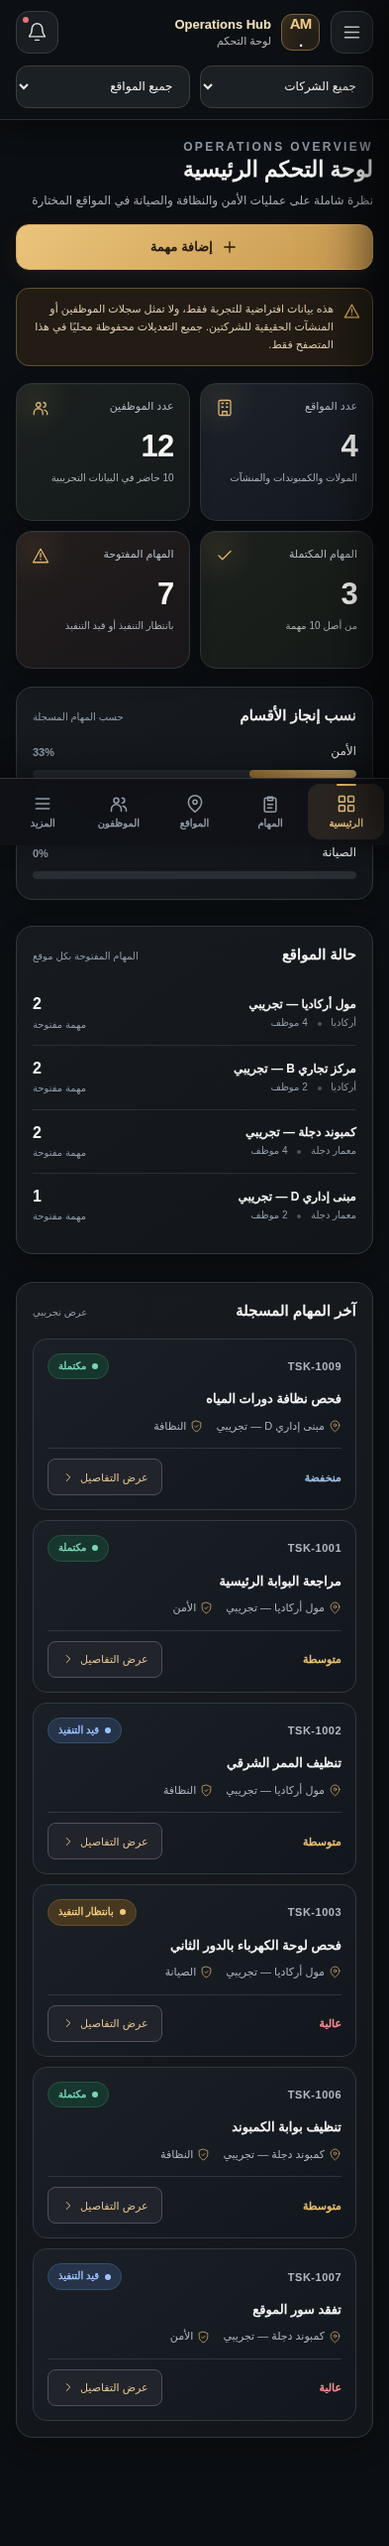
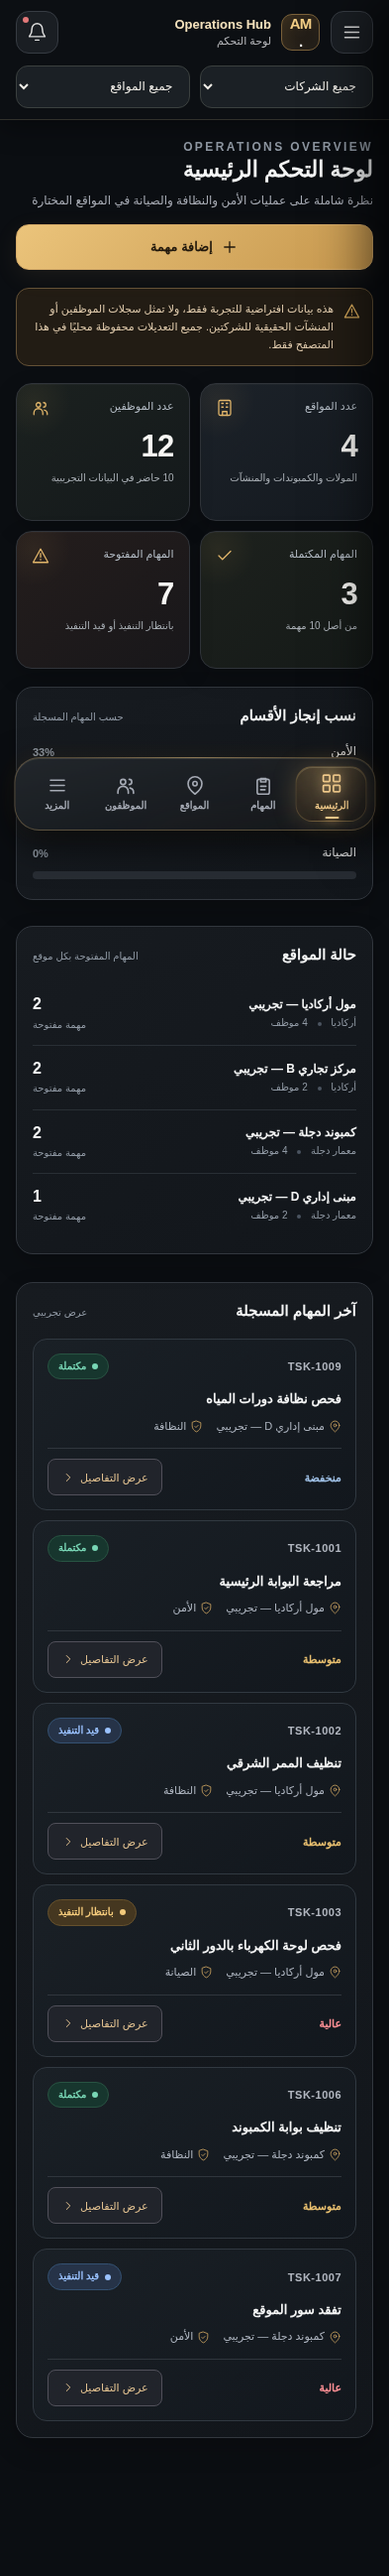
Release V0.2.4 - Floating Navigation and Motion

diff --git a/css/motion-floating.css b/css/motion-floating.css
@@ -1,0 +1,131 @@
+/* ARCADIA × MEMAAR DEGLA | V0.2.4 Floating Navigation & Motion
+   Additive polish on top of V0.2.3; existing desktop layout remains untouched.
+   Only opacity/transform animations for core transitions and respects reduced motion. */
+:root{--ease-premium:cubic-bezier(.22,1,.36,1);--motion-fast:180ms;--motion-standard:360ms}
+
+/* Soft, purposeful feedback for interactive elements across views. */
+.btn,.icon-btn,.table-link,.nav-item,.top-filter select,.data-card,.metric-card{
+  transition:background-color .22s ease,border-color .22s ease,box-shadow .3s ease,color .22s ease,filter .22s ease,transform .35s var(--ease-premium);
+}
+.btn:active,.icon-btn:active,.table-link:active{transform:scale(.965)}
+.btn-primary:hover{box-shadow:0 10px 32px rgba(216,165,83,.19),inset 0 1px rgba(255,255,255,.2)}
+.top-filter select:focus-visible,.select-plain:focus-visible{border-color:#d9ab5c;box-shadow:0 0 0 3px rgba(217,171,92,.14)}
+@media(hover:hover){
+  .data-card:hover,.metric-card:hover{border-color:#6d583c;transform:translateY(-3px);box-shadow:0 13px 36px #0005,0 0 0 1px #c6a36612}
+  .nav-item:not(.active):hover{transform:translateX(-2px)}
+}
+
+/* Page transitions happen on navigation, not on every search keystroke/filter refresh. */
+.content.page-enter > *{animation:pageSoftReveal .46s var(--ease-premium) both}
+.content.page-enter > :nth-child(2){animation-delay:35ms}
+.content.page-enter > :nth-child(3){animation-delay:65ms}
+.content.page-enter > :nth-child(4){animation-delay:90ms}
+.content.page-enter > :nth-child(5){animation-delay:115ms}
+@keyframes pageSoftReveal{from{opacity:.25;transform:translate3d(0,10px,0)}to{opacity:1;transform:translate3d(0,0,0)}}
+/* Gentle progress indication on entry, without any repeating animation. */
+.content.page-enter .progress-fill{transform-origin:right center;animation:progressUnfold .7s var(--ease-premium) both}
+@keyframes progressUnfold{from{transform:scaleX(.12);opacity:.5}to{transform:scaleX(1);opacity:1}}
+.dialog-backdrop{animation:veilAppear .24s ease both}
+.dialog-backdrop .dialog{animation:dialogArrive .42s var(--ease-premium) both;transform-origin:50% 90%}
+@keyframes veilAppear{from{opacity:0}to{opacity:1}}
+@keyframes dialogArrive{from{opacity:0;transform:translate3d(0,20px,0) scale(.975)}to{opacity:1;transform:translate3d(0,0,0) scale(1)}}
+
+@media(max-width:820px){
+  /* Reserve sufficient breathing room for the floating dock, incl. curved corners. */
+  .content{padding-bottom:calc(125px + env(safe-area-inset-bottom,0px))}
+  .sidebar{transition:transform .42s var(--ease-premium)}
+  .sidebar-overlay{display:block;position:fixed;inset:0;background:rgba(0,0,0,.56);z-index:20;opacity:0;visibility:hidden;pointer-events:none;backdrop-filter:blur(0);transition:opacity .3s ease,visibility .3s ease,backdrop-filter .3s ease}
+  .sidebar-overlay.visible{display:block;opacity:1;visibility:visible;pointer-events:auto;backdrop-filter:blur(5px)}
+
+  /* Floating navigation: truly detached from all four screen edges. */
+  .mobile-bottom-nav{
+    --dock-glow:rgba(225,178,103,.26);
+    display:grid;
+    grid-template-columns:repeat(5,minmax(0,1fr));
+    position:fixed;
+    z-index:11;
+    left:50%;right:auto;
+    bottom:calc(15px + env(safe-area-inset-bottom,0px));
+    width:min(540px,calc(100% - 28px));
+    min-height:74px;
+    height:74px;
+    padding:8px;
+    transform:translate3d(-50%,0,0);
+    isolation:isolate;
+    border:1px solid rgba(215,174,105,.32);
+    border-radius:25px;
+    background:linear-gradient(165deg,rgba(35,39,44,.93),rgba(16,19,24,.94));
+    -webkit-backdrop-filter:blur(22px) saturate(130%);
+    backdrop-filter:blur(22px) saturate(130%);
+    box-shadow:0 13px 38px rgba(0,0,0,.66),0 0 24px rgba(218,171,92,.09),inset 0 1px 0 rgba(255,246,217,.12);
+  }
+  /* One golden spotlight glides underneath the selected destination. */
+  .mobile-bottom-nav::before{
+    content:"";
+    position:absolute;
+    z-index:-1;
+    top:8px;bottom:8px;
+    right:8px;
+    width:calc(20% - 3.2px);
+    border-radius:17px;
+    background:radial-gradient(ellipse at 50% 12%,rgba(248,207,135,.20),transparent 78%),linear-gradient(145deg,rgba(181,131,59,.22),rgba(122,86,37,.12));
+    border:1px solid rgba(244,199,122,.2);
+    box-shadow:0 0 23px var(--dock-glow),inset 0 1px rgba(255,237,191,.18);
+    transition:right .5s var(--ease-premium),background-color .3s ease;
+    pointer-events:none;
+  }
+  .mobile-bottom-nav[data-active-slot="1"]::before{right:calc(20% + 4.8px)}
+  .mobile-bottom-nav[data-active-slot="2"]::before{right:calc(40% + 1.6px)}
+  .mobile-bottom-nav[data-active-slot="3"]::before{right:calc(60% - 1.6px)}
+  .mobile-bottom-nav[data-active-slot="4"]::before{right:calc(80% - 4.8px)}
+  .mobile-bottom-nav::after{
+    content:"";position:absolute;left:16%;right:16%;top:-1px;height:1px;pointer-events:none;
+    background:linear-gradient(90deg,transparent,rgba(248,207,140,.5),transparent);
+    opacity:.7;
+  }
+  .bottom-nav-item{
+    min-height:56px;height:56px;
+    padding:3px 1px;
+    border-radius:17px;
+    color:#a5aab4;
+    font-size:10px;
+    font-weight:700;
+    line-height:1.4;
+    background:transparent;
+    -webkit-tap-highlight-color:transparent;
+    touch-action:manipulation;
+    transition:color .25s ease,transform .3s var(--ease-premium),filter .25s ease;
+  }
+  .bottom-nav-item .icon{width:21px;height:21px;transition:transform .4s var(--ease-premium),filter .35s ease}
+  .bottom-nav-item.active{background:transparent;color:#f4cd8d;box-shadow:none}
+  .bottom-nav-item.active::before{display:none}
+  .bottom-nav-item.active::after{
+    content:"";position:absolute;bottom:3px;width:14px;height:2px;border-radius:4px;
+    background:#f5ce8f;box-shadow:0 0 8px #e9b76a,0 0 15px #d7a25888;
+  }
+  .bottom-nav-item.active .icon{filter:drop-shadow(0 0 5px rgba(250,208,140,.55));transform:translateY(-2px) scale(1.065)}
+  .bottom-nav-item:active{transform:scale(.90)}
+  .bottom-nav-item:focus-visible{outline:2px solid #e1b472;outline-offset:-2px}
+  #toast{bottom:calc(106px + env(safe-area-inset-bottom,0px))}
+  .metric-card:active,.data-card:active{transform:scale(.99)}
+  .topbar .mobile-menu:active{transform:scale(.93) rotate(-5deg)}
+  .heading-actions .btn-primary{position:relative;overflow:hidden}
+  .heading-actions .btn-primary::after{content:"";position:absolute;top:0;bottom:0;width:34%;left:-35%;transform:skewX(-24deg);background:linear-gradient(90deg,transparent,rgba(255,255,255,.14),transparent);pointer-events:none;transition:left .6s ease}
+  .heading-actions .btn-primary:active::after{left:110%}
+}
+@media(max-width:360px){
+  .mobile-bottom-nav{width:calc(100% - 20px);bottom:calc(11px + env(safe-area-inset-bottom,0px));padding:7px;height:70px;min-height:70px;border-radius:22px}
+  .mobile-bottom-nav::before{top:7px;bottom:7px;right:7px;width:calc(20% - 2.8px)}
+  .mobile-bottom-nav[data-active-slot="1"]::before{right:calc(20% + 4.2px)}
+  .mobile-bottom-nav[data-active-slot="2"]::before{right:calc(40% + 1.4px)}
+  .mobile-bottom-nav[data-active-slot="3"]::before{right:calc(60% - 1.4px)}
+  .mobile-bottom-nav[data-active-slot="4"]::before{right:calc(80% - 4.2px)}
+  .bottom-nav-item{height:54px;min-height:54px;font-size:9px}
+}
+@media(min-width:821px){.mobile-bottom-nav{display:none}}
+@media(prefers-reduced-motion:reduce){
+  .content.page-enter > *, .content.page-enter .progress-fill,.dialog-backdrop,.dialog-backdrop .dialog{animation:none!important}
+  .mobile-bottom-nav::before,.bottom-nav-item,.bottom-nav-item .icon,.sidebar,.sidebar-overlay{transition:none!important}
+  .btn,.icon-btn,.table-link,.nav-item,.top-filter select,.data-card,.metric-card{transition:none!important}
+  .mobile-bottom-nav{-webkit-backdrop-filter:none;backdrop-filter:none;background:#191c21}
+}

diff --git a/index.html b/index.html
@@ -6,11 +6,12 @@
   <meta name="theme-color" content="#0b0d11">
   <meta name="description" content="نموذج أولي لنظام إدارة التشغيل لشركتي ARCADIA وMEMAAR DEGLA">
   <title>Operations Hub | ARCADIA × MEMAAR DEGLA</title>
-  <link rel="stylesheet" href="css/main.css?v=0.2.3">
-  <link rel="stylesheet" href="css/components.css?v=0.2.3">
-  <link rel="stylesheet" href="css/dashboard.css?v=0.2.3">
-  <link rel="stylesheet" href="css/responsive.css?v=0.2.3">
-  <link rel="stylesheet" href="css/mobile-premium.css?v=0.2.3">
+  <link rel="stylesheet" href="css/main.css?v=0.2.4">
+  <link rel="stylesheet" href="css/components.css?v=0.2.4">
+  <link rel="stylesheet" href="css/dashboard.css?v=0.2.4">
+  <link rel="stylesheet" href="css/responsive.css?v=0.2.4">
+  <link rel="stylesheet" href="css/mobile-premium.css?v=0.2.4">
+  <link rel="stylesheet" href="css/motion-floating.css?v=0.2.4">
 </head>
 <body>
 <svg aria-hidden="true" class="sprite" xmlns="http://www.w3.org/2000/svg">
@@ -54,7 +55,7 @@
     <div class="side-section-label">قائمة النظام</div>
     <nav id="side-nav"></nav>
     <div class="side-bottom">
-      <div class="prototype-notice"><span class="prototype-pulse"></span><div><strong>نسخة استعراضية 0.2.3</strong><small>البيانات للتجربة فقط — لا يوجد خادم أو حسابات فعلية</small></div></div>
+      <div class="prototype-notice"><span class="prototype-pulse"></span><div><strong>نسخة استعراضية 0.2.4</strong><small>البيانات للتجربة فقط — لا يوجد خادم أو حسابات فعلية</small></div></div>
       <div class="build-version">© 2026 ARCADIA × MEMAAR DEGLA</div>
     </div>
   </aside>
@@ -70,7 +71,7 @@
       </div>
     </header>
     <main class="content" id="content" tabindex="-1"></main>
-    <nav class="mobile-bottom-nav" id="mobile-bottom-nav" aria-label="التنقل السريع">
+    <nav class="mobile-bottom-nav" id="mobile-bottom-nav" aria-label="التنقل السريع" data-active-slot="0">
       <button type="button" data-page="dashboard" class="bottom-nav-item active"><svg class="icon" aria-hidden="true"><use href="#i-grid"></use></svg><span>الرئيسية</span></button>
       <button type="button" data-page="tasks" class="bottom-nav-item"><svg class="icon" aria-hidden="true"><use href="#i-clipboard"></use></svg><span>المهام</span></button>
       <button type="button" data-page="sites" class="bottom-nav-item"><svg class="icon" aria-hidden="true"><use href="#i-map"></use></svg><span>المواقع</span></button>
@@ -82,7 +83,7 @@
 </div>
 <div id="dialog-root"></div>
 <div id="toast" role="status" aria-live="polite"></div>
-<script type="module" src="js/app.js?v=0.2.3"></script>
+<script type="module" src="js/app.js?v=0.2.4"></script>
 <noscript><p style="padding:1rem;text-align:center">يتطلب تشغيل هذه الواجهة تفعيل JavaScript.</p></noscript>
 </body>
 </html>

diff --git a/js/ui/events.js b/js/ui/events.js
@@ -4,7 +4,7 @@ export function initEvents(ctx) {
   function resetDemo(){if(!confirm('هل تريد حذف التعديلات التجريبية وإعادة البيانات الأصلية؟'))return;resetData();closeDialog();state.company='all';state.site='all';state.search='';state.status='all';refresh();toast('أُعيدت البيانات التجريبية');}
   function closeSidebar(){$('sidebar').classList.remove('open');$('overlay').classList.remove('visible');$('menu-btn').setAttribute('aria-expanded','false');}
   document.addEventListener('click',e=>{
-    const nav=e.target.closest('[data-page]');if(nav){state.page=nav.dataset.page;state.search='';state.status='all';closeSidebar();renderPage();window.scrollTo({top:0,behavior:'auto'});return;}
+    const nav=e.target.closest('[data-page]');if(nav){const changed=state.page!==nav.dataset.page;state.page=nav.dataset.page;state.search='';state.status='all';closeSidebar();renderPage({animate:changed});window.scrollTo({top:0,behavior:'auto'});return;}
     const a=e.target.closest('[data-action]');if(a){const action=a.dataset.action;
       if(action==='new-task')newTask();else if(action==='new-site')newSite();else if(action==='new-employee')newEmployee();else if(action==='submit-task')submitTask();else if(action==='submit-site')submitSite();else if(action==='submit-employee')submitEmployee();else if(action==='task-detail')taskDetail(a.dataset.id);else if(action==='update-task'){const t=data.tasks.find(t=>t.id===a.dataset.id);if(t&&['pending','progress','done'].includes($('detail-status').value)){t.status=$('detail-status').value;save();closeDialog();renderPage();toast('تم تحديث حالة المهمة تجريبيًا');}}
       else if(action==='toggle-presence'){const p=employee(a.dataset.id);if(p){p.presence=p.presence==='present'?'absent':'present';save();renderPage();toast('تم تحديث سجل الحضور التجريبي');}}
@@ -21,7 +21,7 @@ export function initEvents(ctx) {
   $('overlay').addEventListener('click',closeSidebar);
   const bottomMenu=$('bottom-menu-btn');if(bottomMenu)bottomMenu.addEventListener('click',()=>{$('sidebar').classList.add('open');$('overlay').classList.add('visible');$('menu-btn').setAttribute('aria-expanded','true');});
   $('menu-btn').setAttribute('aria-expanded','false');
-  $('notification-btn').addEventListener('click',()=>{state.page='maintenance';state.status='pending';state.search='';renderPage();toast('عرض المهام المعلقة — الإشعارات الحقيقية ستُضاف لاحقًا');});
+  $('notification-btn').addEventListener('click',()=>{state.page='maintenance';state.status='pending';state.search='';renderPage({animate:true});toast('عرض المهام المعلقة — الإشعارات الحقيقية ستُضاف لاحقًا');});
   refresh();
   return { resetDemo, closeSidebar };
 }

diff --git a/js/ui/layout.js b/js/ui/layout.js
@@ -1,14 +1,35 @@
 // Modular V0.2.2: createLayout. UI demo only.
 export function createLayout(ctx) {
   const { $, data, state, icon, esc, NAV, company, site, dashboard, companies, sitesPage, employeesPage, tasksPage, attendance, reports, settings } = ctx;
-  function renderPage(){
+  function renderPage({animate=false}={}){
     const renderers={dashboard,companies,sites:sitesPage,employees:employeesPage,tasks:()=>tasksPage(),security:()=>tasksPage('security'),cleaning:()=>tasksPage('cleaning'),maintenance:()=>tasksPage('maintenance'),attendance,reports,settings};
     $('side-nav').innerHTML=NAV.map(([id,ic,title])=>`<button class="nav-item ${state.page===id?'active':''}" data-page="${id}" ${state.page===id?'aria-current="page"':''}>${icon(ic)}<span>${title}</span></button>`).join('');
     const label=NAV.find(x=>x[0]===state.page)?.[2]||'لوحة التحكم';
     $('breadcrumb').innerHTML=`النظام <span class="small-sep"></span> <strong>${esc(label)}</strong>`;
     const mobileLabel=$('mobile-page-title');if(mobileLabel)mobileLabel.textContent=label;
-    document.querySelectorAll('#mobile-bottom-nav [data-page]').forEach(button=>{const active=button.dataset.page===state.page;button.classList.toggle('active',active);if(active)button.setAttribute('aria-current','page');else button.removeAttribute('aria-current');});
-    $('content').innerHTML=(renderers[state.page]||dashboard)();
+    const primaryPages=['dashboard','tasks','sites','employees'];
+    const activeSlot=primaryPages.includes(state.page)?primaryPages.indexOf(state.page):4;
+    const dock=$('mobile-bottom-nav');
+    if(dock)dock.dataset.activeSlot=String(activeSlot);
+    document.querySelectorAll('#mobile-bottom-nav [data-page]').forEach(button=>{
+      const active=button.dataset.page===state.page;
+      button.classList.toggle('active',active);
+      if(active)button.setAttribute('aria-current','page');else button.removeAttribute('aria-current');
+    });
+    const more=$('bottom-menu-btn');
+    if(more){
+      const moreActive=activeSlot===4;
+      more.classList.toggle('active',moreActive);
+      if(moreActive)more.setAttribute('aria-current','page');else more.removeAttribute('aria-current');
+    }
+    const content=$('content');
+    content.classList.remove('page-enter');
+    content.innerHTML=(renderers[state.page]||dashboard)();
+    if(animate && !window.matchMedia?.('(prefers-reduced-motion: reduce)').matches){
+      // Restart one-shot animation only when the user switches pages.
+      void content.offsetWidth;
+      content.classList.add('page-enter');
+    }
   }
   function renderFilters(){
     $('company-filter').innerHTML=`<option value="all">جميع الشركات</option>`+data.companies.map(c=>`<option value="${esc(c.id)}" ${state.company===c.id?'selected':''}>${esc(c.name)}</option>`).join('');

diff --git a/js/app.js b/js/app.js
@@ -1,22 +1,22 @@
-// V0.2.2 — modular browser-native ES modules (no build step required).
+// V0.2.4 — modular browser-native ES modules (no build step required).
 // Static hosting compatible: GitHub Pages. Demo data remains local-only.
-import {$,icon,esc,day,safeCsvCell} from './core/utils.js?v=0.2.3';
-import {createSeed} from './core/seed.js?v=0.2.3';
-import {LABELS,STATUS_CLASS,NAV} from './core/config.js?v=0.2.3';
-import {createStore} from './core/store.js?v=0.2.3';
-import {createTemplates} from './ui/templates.js?v=0.2.3';
-import {createDashboardPage} from './pages/dashboard.js?v=0.2.3';
-import {createSitesPages} from './pages/sites.js?v=0.2.3';
-import {createEmployeePage} from './pages/employees.js?v=0.2.3';
-import {createTasksPage} from './pages/tasks.js?v=0.2.3';
-import {createReportsPages} from './pages/reports.js?v=0.2.3';
-import {createLayout} from './ui/layout.js?v=0.2.3';
-import {createDialogs} from './ui/dialogs.js?v=0.2.3';
-import {createFormOptions} from './features/form-options.js?v=0.2.3';
-import {createTaskActions} from './features/tasks.js?v=0.2.3';
-import {createSiteActions} from './features/sites.js?v=0.2.3';
-import {createEmployeeActions} from './features/employees.js?v=0.2.3';
-import {initEvents} from './ui/events.js?v=0.2.3';
+import {$,icon,esc,day,safeCsvCell} from './core/utils.js?v=0.2.4';
+import {createSeed} from './core/seed.js?v=0.2.4';
+import {LABELS,STATUS_CLASS,NAV} from './core/config.js?v=0.2.4';
+import {createStore} from './core/store.js?v=0.2.4';
+import {createTemplates} from './ui/templates.js?v=0.2.4';
+import {createDashboardPage} from './pages/dashboard.js?v=0.2.4';
+import {createSitesPages} from './pages/sites.js?v=0.2.4';
+import {createEmployeePage} from './pages/employees.js?v=0.2.4';
+import {createTasksPage} from './pages/tasks.js?v=0.2.4';
+import {createReportsPages} from './pages/reports.js?v=0.2.4';
+import {createLayout} from './ui/layout.js?v=0.2.4';
+import {createDialogs} from './ui/dialogs.js?v=0.2.4';
+import {createFormOptions} from './features/form-options.js?v=0.2.4';
+import {createTaskActions} from './features/tasks.js?v=0.2.4';
+import {createSiteActions} from './features/sites.js?v=0.2.4';
+import {createEmployeeActions} from './features/employees.js?v=0.2.4';
+import {initEvents} from './ui/events.js?v=0.2.4';
 
 const SEED=createSeed(day);
 const {data,save,resetData}=createStore(SEED);

diff --git a/README.md b/README.md
@@ -1,4 +1,4 @@
-# ARCADIA × MEMAAR DEGLA — Operations Hub V0.2.3
+# ARCADIA × MEMAAR DEGLA — Operations Hub V0.2.4
 
 واجهة إدارة تجريبية باللغة العربية لشركتين تحت إدارة واحدة، مع أقسام الأمن والنظافة والصيانة والحضور والتقارير.
 
@@ -47,9 +47,17 @@ python -m http.server 8000
 - إصلاح زر إعادة ضبط بيانات العرض التجريبي لاستدعاء `resetData()` بدل إسناد إلى ثابت.
 - إزالة المحارف الثنائية من التعبير المنتظم للـ CSV، وإضافة cache-busting لملف التشغيل.
 
-## Mobile UX V0.2.3
+## Mobile UX V0.2.4
 - `css/mobile-premium.css` overrides responsive presentation without altering desktop styles.
 - The bottom navigation renders on screens up to 820px, with the `المزيد` item opening the full sidebar.
 - Dashboard and task screens use responsive cards below 820px; desktop tables remain intact.
 - The company and site filter controls are visible on mobile in the second toolbar row.
 - Manual test widths: 320, 360, 393, 430, 768, 1366 pixels.
+
+## Floating Motion Upgrade V0.2.4
+- Floating pill navigation with real margins on all sides (including safe area) and translucent dark glass surface.
+- Gold light highlight glides between five tabs and supports all 11 pages via More.
+- Soft one-off animations for page navigation, modals, progress bars and button presses.
+- Honors `prefers-reduced-motion` and avoids perpetual GPU animations.
+- Responsive navigation works without any library, compatible with GitHub Pages and future WebView.
+- No change to the demo data storage key or business logic.

diff --git a/tests/TEST_PLAN.md b/tests/TEST_PLAN.md
@@ -10,3 +10,11 @@
 - تحقق من شاشة الموبايل وعمل زر فتح/إغلاق القائمة.
 - تأكد من عدم وجود استخدام لبيانات فعلية أو مفاتيح سرية في المستودع.
 - قبل أي إطلاق حقيقي: نفّذ اختبارات الصلاحيات من قاعدة البيانات، والتحقق من الجلسات، والنسخ الاحتياطي.
+
+## V0.2.4 focused checks
+- 320/360/393/430/768px: floating dock detached from side and bottom edges, no horizontal scroll.
+- Tabs: selection glow slides for the first 4 destinations; More indicates other sections.
+- Navigation: graceful content entrance only on actual page switches (not search/filter changes).
+- Reduced motion: zero page/dock animations and no focus regression.
+- Open sidebar from top and More, dismiss by backdrop/Escape.
+- Try modal, task card and both filters; ensure content is not obscured by dock.

diff --git a/CHANGELOG.md b/CHANGELOG.md
@@ -1,5 +1,16 @@
 # Changelog
 
+## V0.2.4 — Floating Dock & Motion Polish
+- Changed mobile bottom navigation from edge-to-edge footer to a detached floating glass dock.
+- Added smoothly moving gold selection spotlight and subtle button/micro-interaction feedback.
+- Added one-shot page and dialog entry transitions, with motion disabled for reduced-motion accessibility.
+- Fixed selected-tab indication when opening sections from the More menu.
+- Preserved desktop styling, 11 sections, demo storage, and existing logos.
+- Refreshed asset cache tokens for the new deployment.
+- Backend/auth still not implemented; local demo only.
+
+# Changelog
+
 ## V0.2.3 — Mobile Experience Upgrade
 - Reworked mobile header as a compact 2-row toolbar with company and site selectors.
 - Added persistent 5-item bottom navigation, wired to the existing page router and sidebar.
